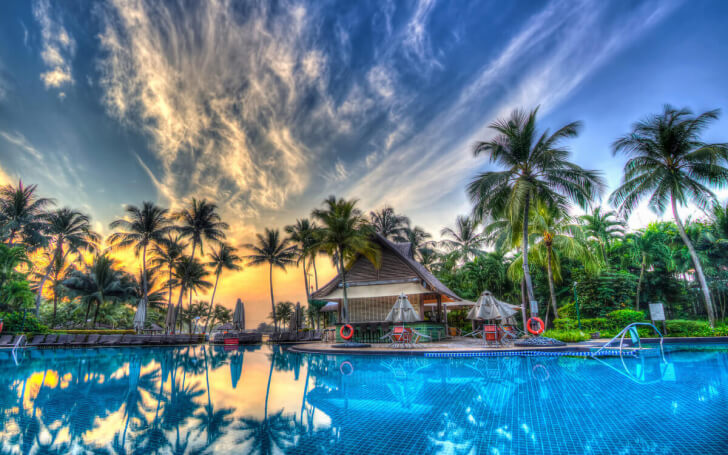
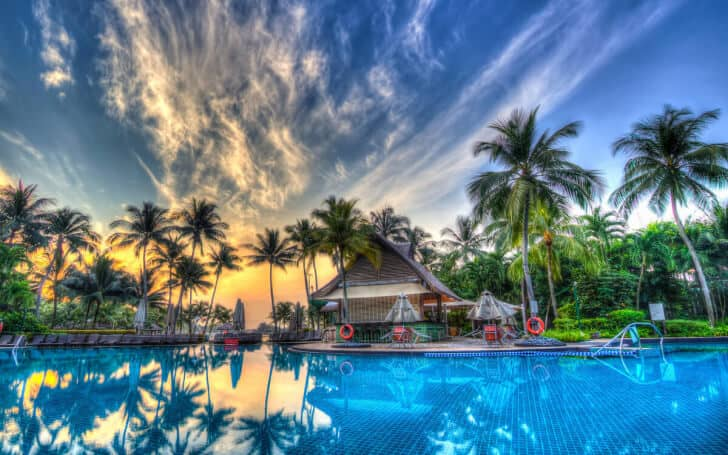
fix: compressed image and js

diff --git a/js/index.js b/js/index.js
@@ -1,104 +1,1 @@
-document.addEventListener('DOMContentLoaded', function () {
-    const hotelSlider = new Swiper('.hotel-slider', {
-        loop: true,
-        navigation: {
-            nextEl: '.hotel-slider__button--next',
-            prevEl: '.hotel-slider__button--prev',
-        },
-    });
-    const packagesSlider = new Swiper('.packages-slider', {
-        loop: true,
-        navigation: {
-            nextEl: '.packages-slider__button--next',
-            prevEl: '.packages-slider__button--prev',
-        },
-    });
-    const reviewsSlider = new Swiper('.reviews-slider', {
-        loop: true,
-        navigation: {
-            nextEl: '.reviews-slider__button--next',
-            prevEl: '.reviews-slider__button--prev',
-        },
-    });
-    document.body.addEventListener('click', function (e) {
-        const target = e.target;
-
-        if (target.closest('#map')) {
-            const map = target.closest('#map');
-            map.children[0].remove();
-            map.innerHTML = `
-            <iframe
-                            src="https://www.google.com/maps/embed?pb=!1m18!1m12!1m3!1d988.1353737578034!2d98.29867252922972!3d7.838252399647018!2m3!1f0!2f0!3f0!3m2!1i1024!2i768!4f13.1!3m3!1m2!1s0x305025650c33dbab%3A0xa67a542329d011e1!2z0J_RhdGD0LrQtdGCLCDQmtCw0YDQvtC9LCDQntGC0LXQu9GMINCl0LjQu9GC0L7QvQ!5e0!3m2!1sru!2sru!4v1600872554721!5m2!1sru!2sru"
-                            style="border:0; width:100%; height: 100%;" allowfullscreen="" aria-hidden="false"
-                            tabindex="0"></iframe>
-            `;
-        }
-    });
-    const menuButton = document.querySelector('.menu-button');
-    menuButton.addEventListener('click', function () {
-        document.querySelector('.navbar-bottom').classList.toggle('navbar-bottom_visible')
-    });
-    const modalButton = document.querySelectorAll('.modal-btn'),
-        modal = document.querySelector('.modal'),
-        closeModalButton = modal.querySelector('.modal__close');
-    modalButton.forEach(function (item) {
-        item.addEventListener('click', function () {
-            modal.classList.add('modal--visible');
-            document.body.classList.add('modal--open')
-        })
-    });
-    closeModalButton.addEventListener('click', function (e) {
-        e.preventDefault();
-        modal.classList.remove('modal--visible');
-        document.body.classList.remove('modal--open')
-    });
-    modal.addEventListener('click', function (e) {
-        const target = e.target;
-        if (target.closest('.modal__overlay')) {
-            modal.classList.remove('modal--visible');
-            document.body.classList.remove('modal--open')
-        }
-    });
-    document.addEventListener('keyup', function (e) {
-        if (e.keyCode === 37) {
-            hotelSlider.slidePrev()
-        } else if (e.keyCode === 39) {
-            hotelSlider.slideNext()
-        } else if (e.keyCode === 27) {
-            modal.classList.remove('modal--visible');
-            document.body.classList.remove('modal--open')
-        }
-    });
-    $('.form').each(function () {
-        $(this).validate({
-            errorClass: "invalid",
-            messages: {
-                name: {
-                    required: "Please specify your name",
-                    minlength: "The name must be at least two letters"
-                },
-                email: {
-                    required: "We need your email address to contact you",
-                    email: "Your email address must be in the format of name@domain.com"
-                },
-                phone: {
-                    required: "We need your phone to contact you",
-                }
-            }
-        })
-    });
-    $('.form-email').validate({
-        errorClass: "email-invalid",
-        errorElement: "em",
-        messages: {
-            email: {
-                required: "We need your email address to contact you",
-                email: "Your email address must be in the format of name@domain.com"
-            }
-        }
-    });
-    $('.phone-number').each(function () {
-        $(this).mask('+7 (000) 000-00-00')
-    });
-    AOS.init()
-});
+document.addEventListener('DOMContentLoaded',function(){const hotelSlider=new Swiper('.hotel-slider',{loop:true,navigation:{nextEl:'.hotel-slider__button--next',prevEl:'.hotel-slider__button--prev',},});const packagesSlider=new Swiper('.packages-slider',{loop:true,navigation:{nextEl:'.packages-slider__button--next',prevEl:'.packages-slider__button--prev',},});const reviewsSlider=new Swiper('.reviews-slider',{loop:true,navigation:{nextEl:'.reviews-slider__button--next',prevEl:'.reviews-slider__button--prev',},});document.body.addEventListener('click',function(e){const target=e.target;if(target.closest('#map')){const map=target.closest('#map');map.children[0].remove();map.innerHTML=`<iframe src="https://www.google.com/maps/embed?pb=!1m18!1m12!1m3!1d988.1353737578034!2d98.29867252922972!3d7.838252399647018!2m3!1f0!2f0!3f0!3m2!1i1024!2i768!4f13.1!3m3!1m2!1s0x305025650c33dbab%3A0xa67a542329d011e1!2z0J_RhdGD0LrQtdGCLCDQmtCw0YDQvtC9LCDQntGC0LXQu9GMINCl0LjQu9GC0L7QvQ!5e0!3m2!1sru!2sru!4v1600872554721!5m2!1sru!2sru"style="border:0; width:100%; height: 100%;"allowfullscreen=""aria-hidden="false"tabindex="0"></iframe>`}});const menuButton=document.querySelector('.menu-button');menuButton.addEventListener('click',function(){document.querySelector('.navbar-bottom').classList.toggle('navbar-bottom_visible')});const modalButton=document.querySelectorAll('.modal-btn'),modal=document.querySelector('.modal'),closeModalButton=modal.querySelector('.modal__close');modalButton.forEach(function(item){item.addEventListener('click',function(){modal.classList.add('modal--visible');document.body.classList.add('modal--open')})});closeModalButton.addEventListener('click',function(e){e.preventDefault();modal.classList.remove('modal--visible');document.body.classList.remove('modal--open')});modal.addEventListener('click',function(e){const target=e.target;if(target.closest('.modal__overlay')){modal.classList.remove('modal--visible');document.body.classList.remove('modal--open')}});document.addEventListener('keyup',function(e){if(e.keyCode===37){hotelSlider.slidePrev()}else if(e.keyCode===39){hotelSlider.slideNext()}else if(e.keyCode===27){modal.classList.remove('modal--visible');document.body.classList.remove('modal--open')}});$('.form').each(function(){$(this).validate({errorClass:"invalid",messages:{name:{required:"Please specify your name",minlength:"The name must be at least two letters"},email:{required:"We need your email address to contact you",email:"Your email address must be in the format of name@domain.com"},phone:{required:"We need your phone to contact you",}}})});$('.form-email').validate({errorClass:"email-invalid",errorElement:"em",messages:{email:{required:"We need your email address to contact you",email:"Your email address must be in the format of name@domain.com"}}});$('.phone-number').each(function(){$(this).mask('+7 (000) 000-00-00')});AOS.init()});

diff --git a/index.html b/index.html
@@ -650,7 +650,7 @@
 
     <section class="reviews">
         <div class="container">
-            <h2 class="reviews__title">What people thinks about us</h2>
+            <h2 class="reviews__title">What people think about us</h2>
             <div class="swiper-container reviews-slider">
                 <div class="swiper-wrapper">
                     <div class="swiper-slide">
